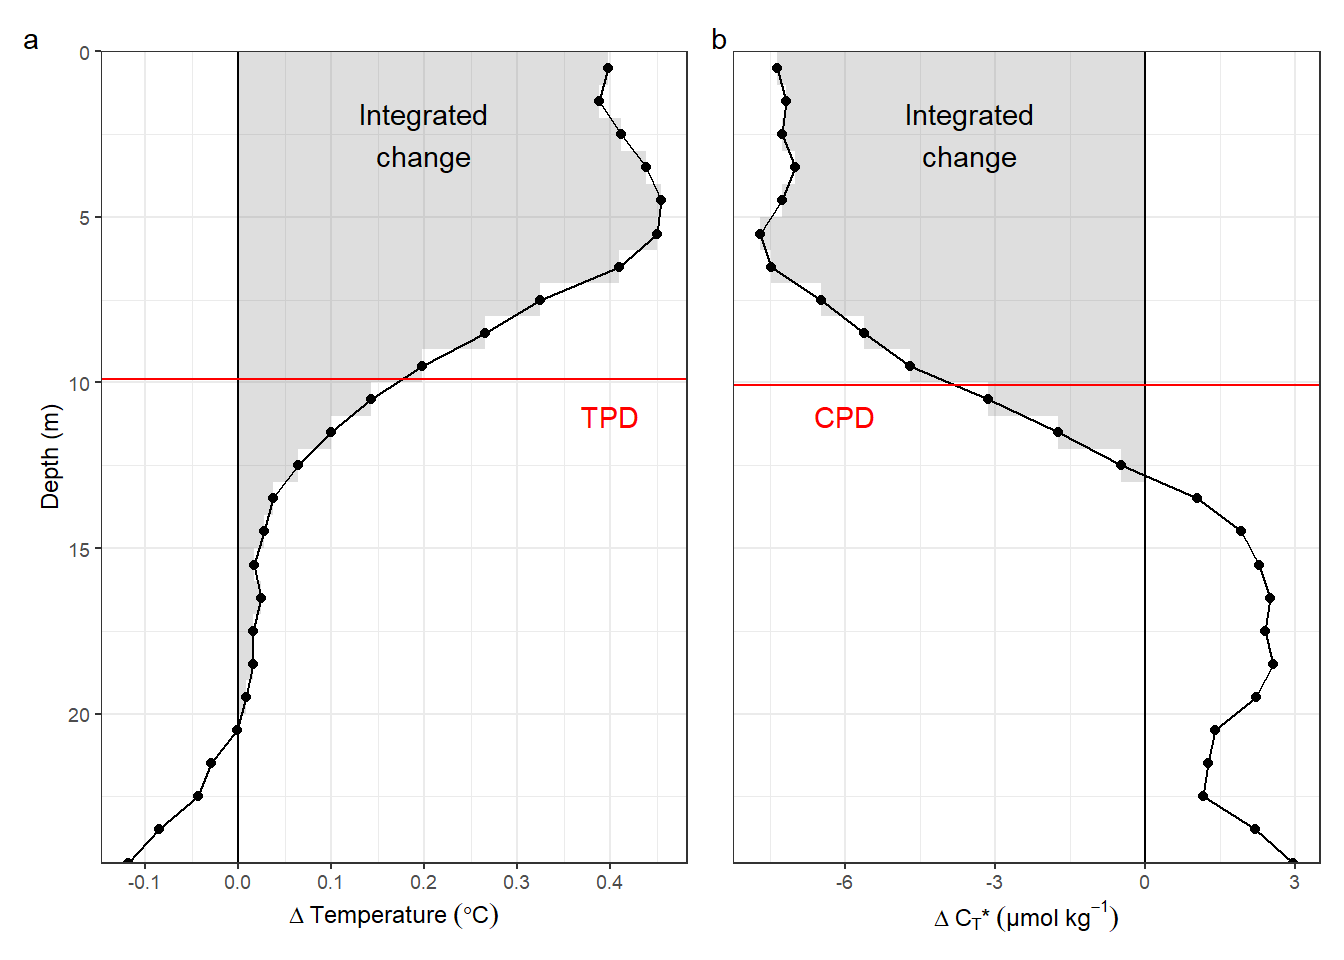
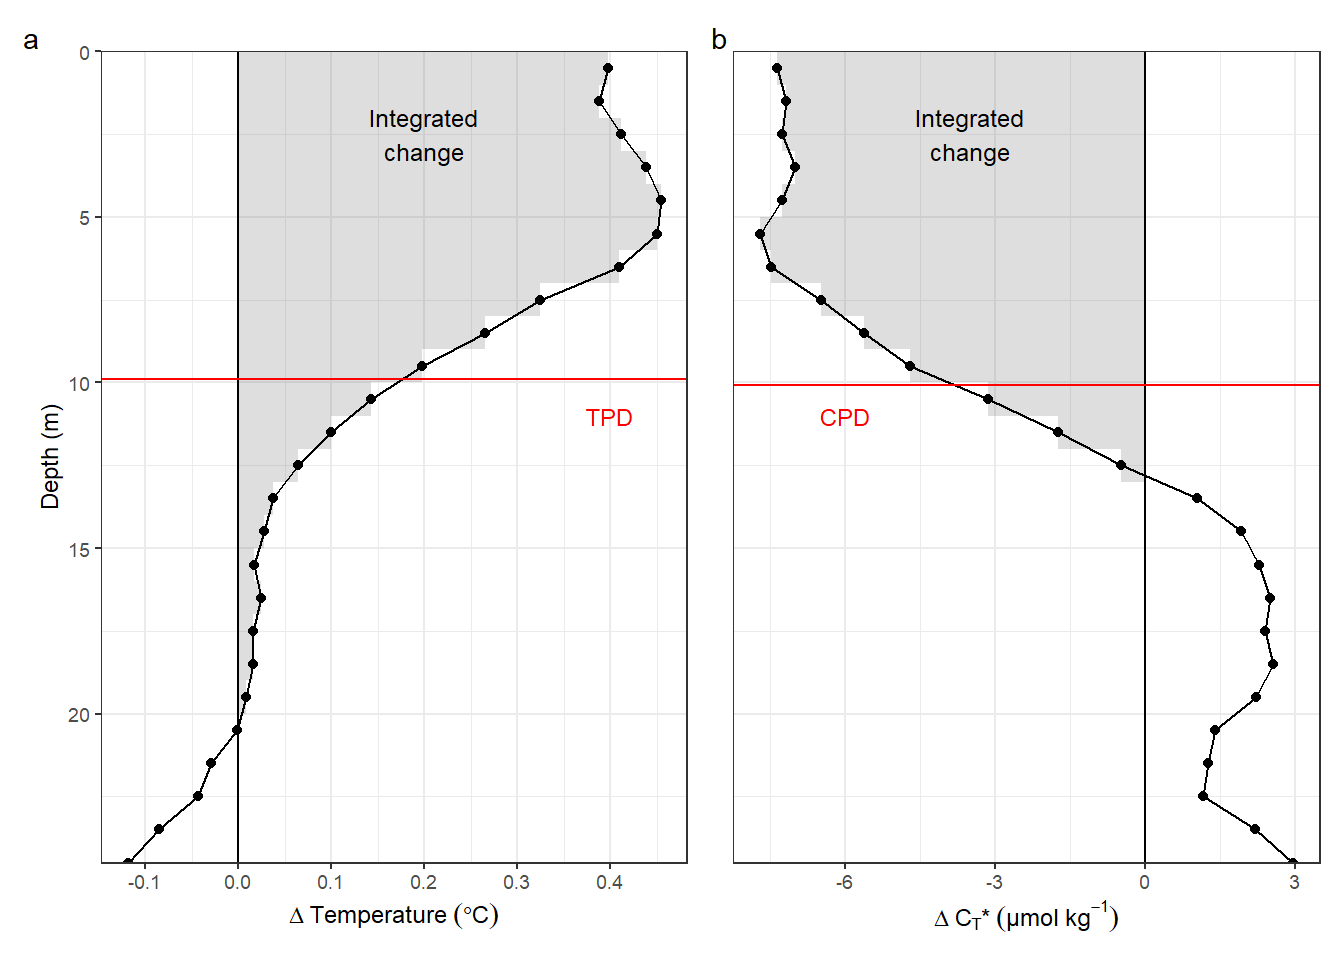
Build site.

diff --git a/docs/NCP_reconstruction.html b/docs/NCP_reconstruction.html
@@ -449,7 +449,7 @@ div.tocify {
 
 <h1 class="title toc-ignore">NCP reconstruction</h1>
 <h4 class="author">Jens Daniel Müller</h4>
-<h4 class="date">30 January, 2021</h4>
+<h4 class="date">02 February, 2021</h4>
 
 </div>
 
@@ -474,7 +474,7 @@ div.tocify {
 <div class="tab-content">
 <div id="summary" class="tab-pane fade in active">
 <p>
-<strong>Last updated:</strong> 2021-01-30
+<strong>Last updated:</strong> 2021-02-02
 </p>
 <p>
 <strong>Checks:</strong> <span class="glyphicon glyphicon-ok text-success" aria-hidden="true"></span> 7 <span class="glyphicon glyphicon-exclamation-sign text-danger" aria-hidden="true"></span> 0
@@ -565,16 +565,16 @@ This reproducible <a href="http://rmarkdown.rstudio.com">R Markdown</a> analysis
 <div class="panel panel-default">
 <div class="panel-heading">
 <p class="panel-title">
-<a data-toggle="collapse" data-parent="#workflowr-checks" href="#strongRepositoryversionstrongahrefhttpsgithubcomjensdanielmuellerBloomSailtreeb470c95d21940c43c2b6e775e8c2722d7f6ca7a8targetblankb470c95a"> <span class="glyphicon glyphicon-ok text-success" aria-hidden="true"></span> <strong>Repository version:</strong> <a href="https://github.com/jens-daniel-mueller/BloomSail/tree/b470c95d21940c43c2b6e775e8c2722d7f6ca7a8" target="_blank">b470c95</a> </a>
+<a data-toggle="collapse" data-parent="#workflowr-checks" href="#strongRepositoryversionstrongahrefhttpsgithubcomjensdanielmuellerBloomSailtree4de153fec5d85be9ddf167c0f96ed3badc0ce6aftargetblank4de153fa"> <span class="glyphicon glyphicon-ok text-success" aria-hidden="true"></span> <strong>Repository version:</strong> <a href="https://github.com/jens-daniel-mueller/BloomSail/tree/4de153fec5d85be9ddf167c0f96ed3badc0ce6af" target="_blank">4de153f</a> </a>
 </p>
 </div>
[2 lines of base64/hex data omitted]
 <div class="panel-body">
 <p>
 Great! You are using Git for version control. Tracking code development and connecting the code version to the results is critical for reproducibility.
 </p>
 <p>
-The results in this page were generated with repository version <a href="https://github.com/jens-daniel-mueller/BloomSail/tree/b470c95d21940c43c2b6e775e8c2722d7f6ca7a8" target="_blank">b470c95</a>. See the <em>Past versions</em> tab to see a history of the changes made to the R Markdown and HTML files.
+The results in this page were generated with repository version <a href="https://github.com/jens-daniel-mueller/BloomSail/tree/4de153fec5d85be9ddf167c0f96ed3badc0ce6af" target="_blank">4de153f</a>. See the <em>Past versions</em> tab to see a history of the changes made to the R Markdown and HTML files.
 </p>
 <p>
 Note that you need to be careful to ensure that all relevant files for the analysis have been committed to Git prior to generating the results (you can use <code>wflow_publish</code> or <code>wflow_git_commit</code>). workflowr only checks the R Markdown file, but you know if there are other scripts or data files that it depends on. Below is the status of the Git repository when the results were generated:
@@ -586,9 +586,9 @@ Ignored files:
     Ignored:    data/input/
     Ignored:    data/intermediate/
     Ignored:    data/output_submission/
+    Ignored:    output/Plots/Figures_publication/.tmp.drivedownload/
 
 Untracked files:
-    Untracked:  output/Plots/Figures_publication/.tmp.drivedownload/
     Untracked:  output/Plots/Figures_publication/Appendix/
 
 Unstaged changes:
@@ -635,6 +635,40 @@ Message
 </tr>
 </thead>
 <tbody>
+<tr>
+<td>
+Rmd
+</td>
+<td>
+<a href="https://github.com/jens-daniel-mueller/BloomSail/blob/4de153fec5d85be9ddf167c0f96ed3badc0ce6af/analysis/NCP_reconstruction.Rmd" target="_blank">4de153f</a>
+</td>
+<td>
+jens-daniel-mueller
+</td>
+<td>
+2021-02-02
+</td>
+<td>
+renamed figures
+</td>
+</tr>
+<tr>
+<td>
+html
+</td>
+<td>
+<a href="https://rawcdn.githack.com/jens-daniel-mueller/BloomSail/289b763adf7e71156fbbf1b60f55295b75b893d0/docs/NCP_reconstruction.html" target="_blank">289b763</a>
+</td>
+<td>
+jens-daniel-mueller
+</td>
+<td>
+2021-01-30
+</td>
+<td>
+Build site.
+</td>
+</tr>
 <tr>
 <td>
 Rmd
@@ -2023,13 +2057,15 @@ p_nCT &lt;-
     x = -6,
     y = 11,
     label = &quot;CPD&quot;,
-    col = col_value
+    col = col_value,
+    size = geom_text_size
   ) +
   annotate(
     &quot;text&quot;,
     x = -3.5,
     y = 2.5,
-    label = &quot;Integrated\nchange&quot;
+    label = &quot;Integrated\nchange&quot;,
+    size = geom_text_size
   ) +
   geom_point(aes(value_diff_daily, dep)) +
   geom_path(aes(value_diff_daily, dep)) +
@@ -2066,13 +2102,15 @@ p_tem &lt;-
     x = 0.4,
     y = 11,
     label = &quot;TPD&quot;,
-    col = col_value
+    col = col_value,
+    size = geom_text_size
   ) +
   annotate(
     &quot;text&quot;,
     x = 0.2,
     y = 2.5,
-    label = &quot;Integrated\nchange&quot;
+    label = &quot;Integrated\nchange&quot;,
+    size = geom_text_size
   ) +
   geom_point(aes(value_diff_daily, dep)) +
   geom_path(aes(value_diff_daily, dep)) +
@@ -2088,7 +2126,7 @@ p_tem + p_nCT +
 <p><img src="figure/NCP_reconstruction.Rmd/TPD_CPD_cumulative_tm_profiles_example-1.png" width="672" style="display: block; margin: auto;" /></p>
 <pre class="r"><code>ggsave(
   here::here(&quot;output/Plots/Figures_publication/appendix&quot;,
-             &quot;Fig_F1.pdf&quot;),
+             &quot;Fig_C4.pdf&quot;),
   width = 120,
   height = 110,
   dpi = 300,
@@ -2097,7 +2135,7 @@ p_tem + p_nCT +
 
 ggsave(
   here::here(&quot;output/Plots/Figures_publication/appendix&quot;,
-             &quot;Fig_F1.png&quot;),
+             &quot;Fig_C4.png&quot;),
   width = 120,
   height = 110,
   dpi = 300,

diff --git a/docs/CT_dynamics.html b/docs/CT_dynamics.html
@@ -451,7 +451,7 @@ div.tocify {
 
 <h1 class="title toc-ignore">CT dynamics</h1>
 <h4 class="author">Jens Daniel Müller</h4>
-<h4 class="date">30 January, 2021</h4>
+<h4 class="date">02 February, 2021</h4>
 
 </div>
 
@@ -476,7 +476,7 @@ div.tocify {
 <div class="tab-content">
 <div id="summary" class="tab-pane fade in active">
 <p>
-<strong>Last updated:</strong> 2021-01-30
+<strong>Last updated:</strong> 2021-02-02
 </p>
 <p>
 <strong>Checks:</strong> <span class="glyphicon glyphicon-ok text-success" aria-hidden="true"></span> 7 <span class="glyphicon glyphicon-exclamation-sign text-danger" aria-hidden="true"></span> 0
@@ -567,16 +567,16 @@ This reproducible <a href="http://rmarkdown.rstudio.com">R Markdown</a> analysis
 <div class="panel panel-default">
 <div class="panel-heading">
 <p class="panel-title">
-<a data-toggle="collapse" data-parent="#workflowr-checks" href="#strongRepositoryversionstrongahrefhttpsgithubcomjensdanielmuellerBloomSailtreed1fe3c6e94f1f7e9304e79a1536088a3ce193f76targetblankd1fe3c6a"> <span class="glyphicon glyphicon-ok text-success" aria-hidden="true"></span> <strong>Repository version:</strong> <a href="https://github.com/jens-daniel-mueller/BloomSail/tree/d1fe3c6e94f1f7e9304e79a1536088a3ce193f76" target="_blank">d1fe3c6</a> </a>
+<a data-toggle="collapse" data-parent="#workflowr-checks" href="#strongRepositoryversionstrongahrefhttpsgithubcomjensdanielmuellerBloomSailtree4de153fec5d85be9ddf167c0f96ed3badc0ce6aftargetblank4de153fa"> <span class="glyphicon glyphicon-ok text-success" aria-hidden="true"></span> <strong>Repository version:</strong> <a href="https://github.com/jens-daniel-mueller/BloomSail/tree/4de153fec5d85be9ddf167c0f96ed3badc0ce6af" target="_blank">4de153f</a> </a>
 </p>
 </div>
[2 lines of base64/hex data omitted]
 <div class="panel-body">
 <p>
 Great! You are using Git for version control. Tracking code development and connecting the code version to the results is critical for reproducibility.
 </p>
 <p>
-The results in this page were generated with repository version <a href="https://github.com/jens-daniel-mueller/BloomSail/tree/d1fe3c6e94f1f7e9304e79a1536088a3ce193f76" target="_blank">d1fe3c6</a>. See the <em>Past versions</em> tab to see a history of the changes made to the R Markdown and HTML files.
+The results in this page were generated with repository version <a href="https://github.com/jens-daniel-mueller/BloomSail/tree/4de153fec5d85be9ddf167c0f96ed3badc0ce6af" target="_blank">4de153f</a>. See the <em>Past versions</em> tab to see a history of the changes made to the R Markdown and HTML files.
 </p>
 <p>
 Note that you need to be careful to ensure that all relevant files for the analysis have been committed to Git prior to generating the results (you can use <code>wflow_publish</code> or <code>wflow_git_commit</code>). workflowr only checks the R Markdown file, but you know if there are other scripts or data files that it depends on. Below is the status of the Git repository when the results were generated:
@@ -588,9 +588,9 @@ Ignored files:
     Ignored:    data/input/
     Ignored:    data/intermediate/
     Ignored:    data/output_submission/
+    Ignored:    output/Plots/Figures_publication/.tmp.drivedownload/
 
 Untracked files:
-    Untracked:  output/Plots/Figures_publication/.tmp.drivedownload/
     Untracked:  output/Plots/Figures_publication/Appendix/
 
 </code></pre>
@@ -630,6 +630,40 @@ Message
 </tr>
 </thead>
 <tbody>
+<tr>
+<td>
+Rmd
+</td>
+<td>
+<a href="https://github.com/jens-daniel-mueller/BloomSail/blob/4de153fec5d85be9ddf167c0f96ed3badc0ce6af/analysis/CT_dynamics.Rmd" target="_blank">4de153f</a>
+</td>
+<td>
+jens-daniel-mueller
+</td>
+<td>
+2021-02-02
+</td>
+<td>
+renamed figures
+</td>
+</tr>
+<tr>
+<td>
+html
+</td>
+<td>
+<a href="https://rawcdn.githack.com/jens-daniel-mueller/BloomSail/88b4406cadb3c3f42d2d7d16c47701f11bd8c7d9/docs/CT_dynamics.html" target="_blank">88b4406</a>
+</td>
+<td>
+jens-daniel-mueller
+</td>
+<td>
+2021-01-30
+</td>
+<td>
+Build site.
+</td>
+</tr>
 <tr>
 <td>
 Rmd
@@ -5715,7 +5749,7 @@ Mean vertical profiles per cruise day across all stations plotted indivdually. R
 <pre class="r"><code>ggsave(
   here::here(
     &quot;output/Plots/Figures_publication/appendix&quot;,
-    &quot;Fig_D1.pdf&quot;
+    &quot;Fig_C3.pdf&quot;
   ),
   width = 120,
   height = 180,
@@ -5726,7 +5760,7 @@ Mean vertical profiles per cruise day across all stations plotted indivdually. R
 ggsave(
   here::here(
     &quot;output/Plots/Figures_publication/appendix&quot;,
-    &quot;Fig_D1.png&quot;
+    &quot;Fig_C3.png&quot;
   ),
   width = 120,
   height = 180,
